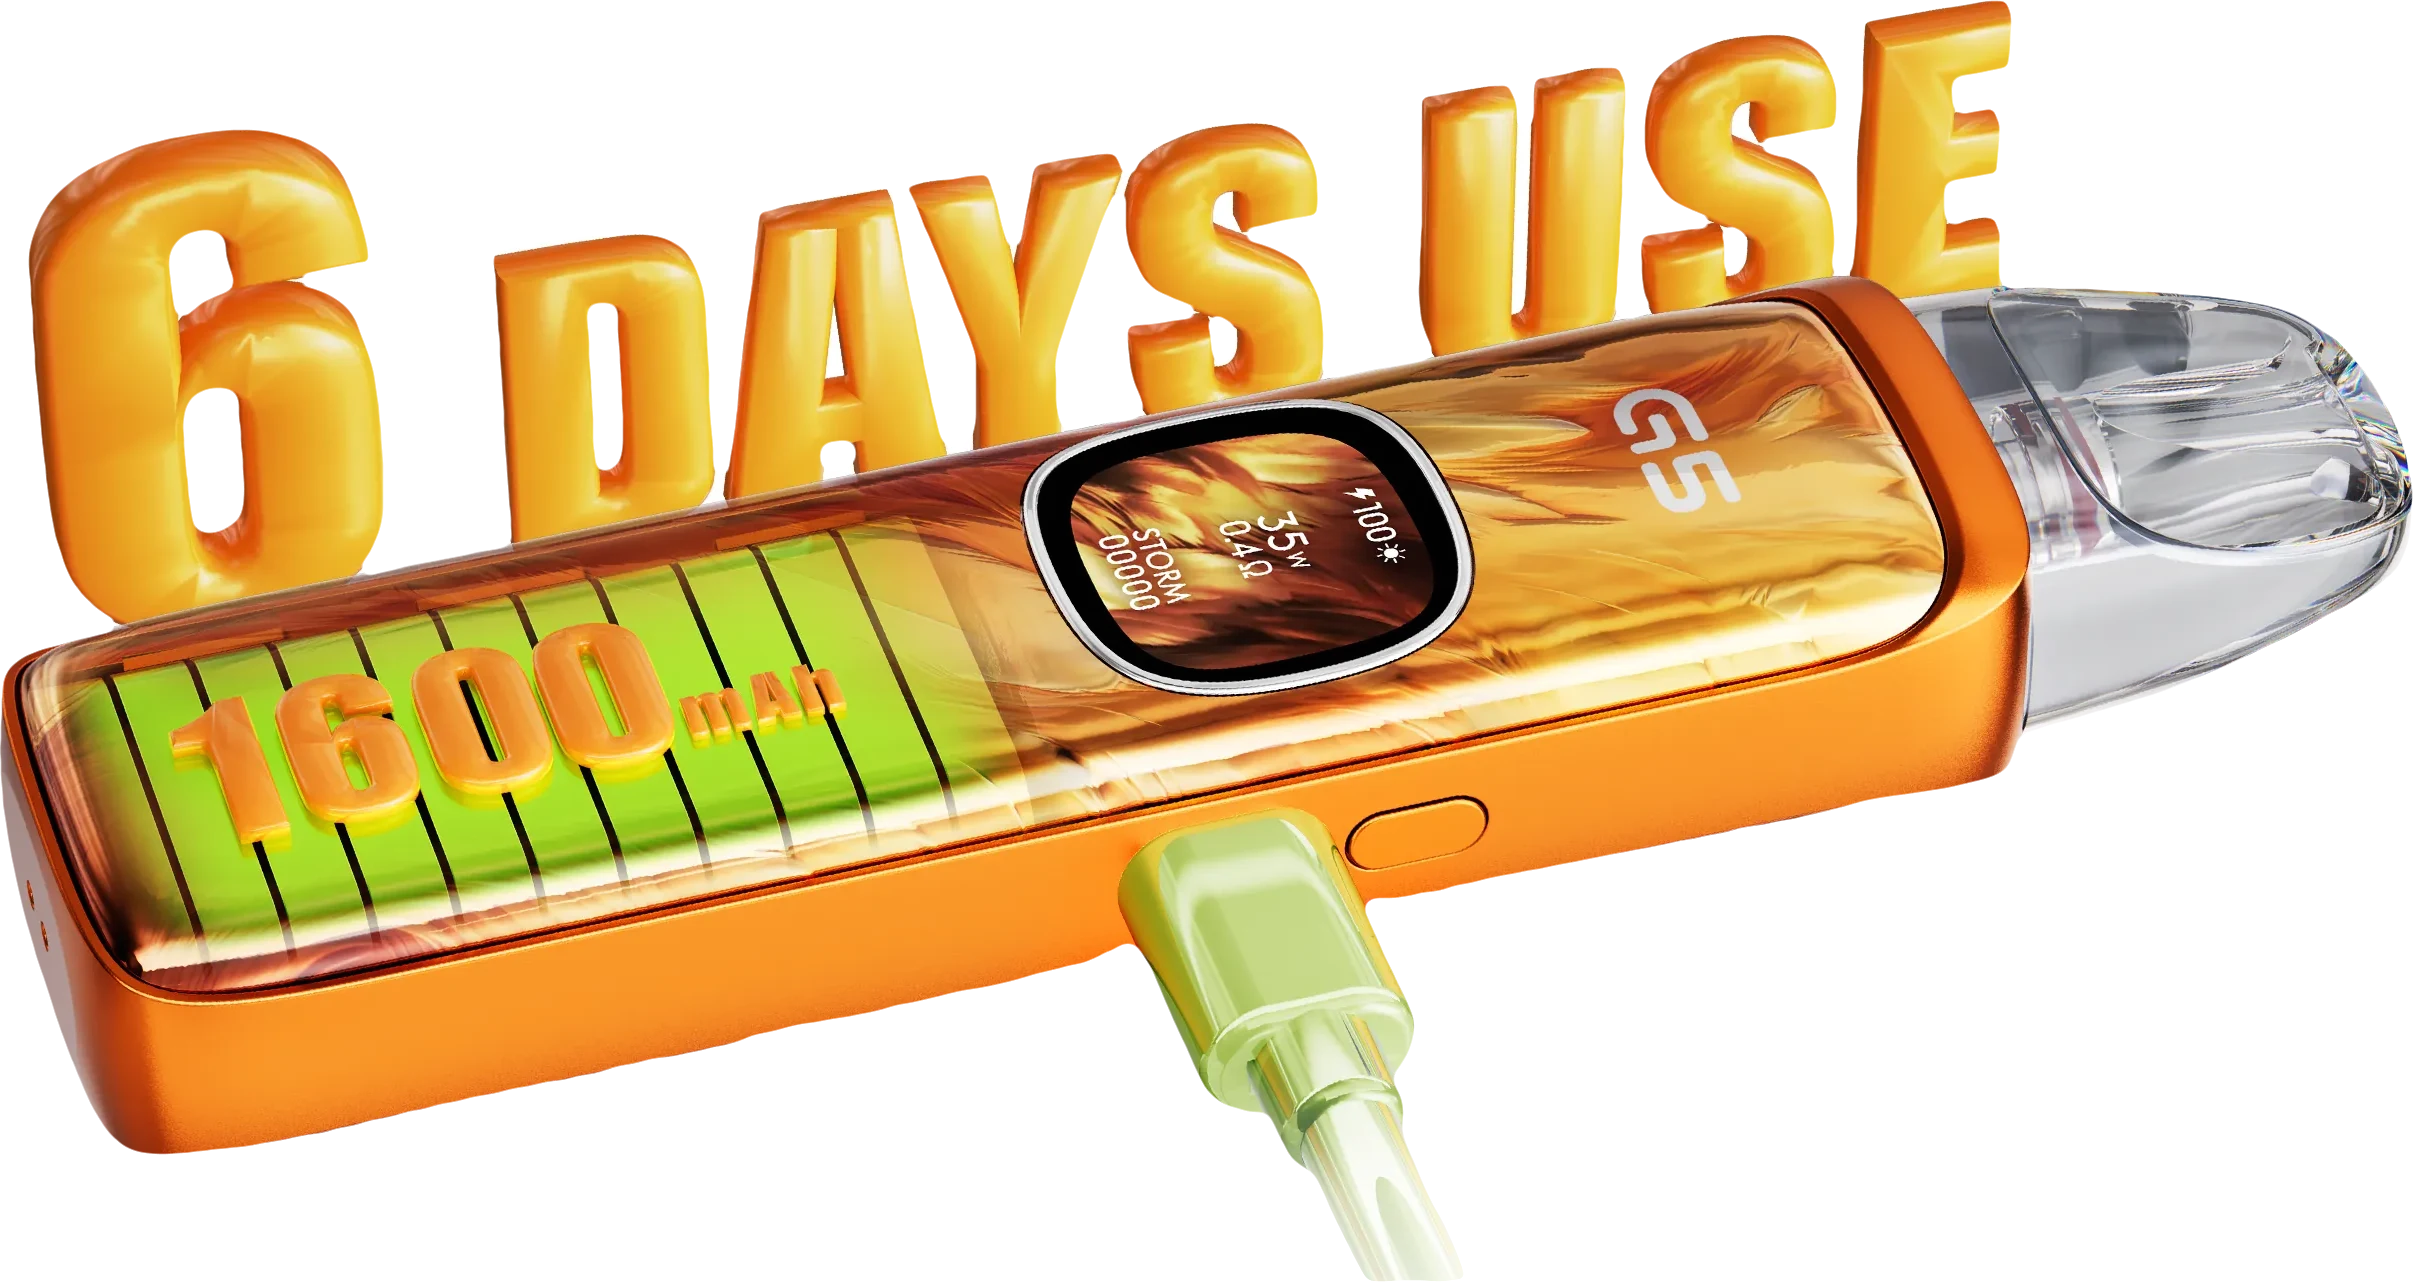
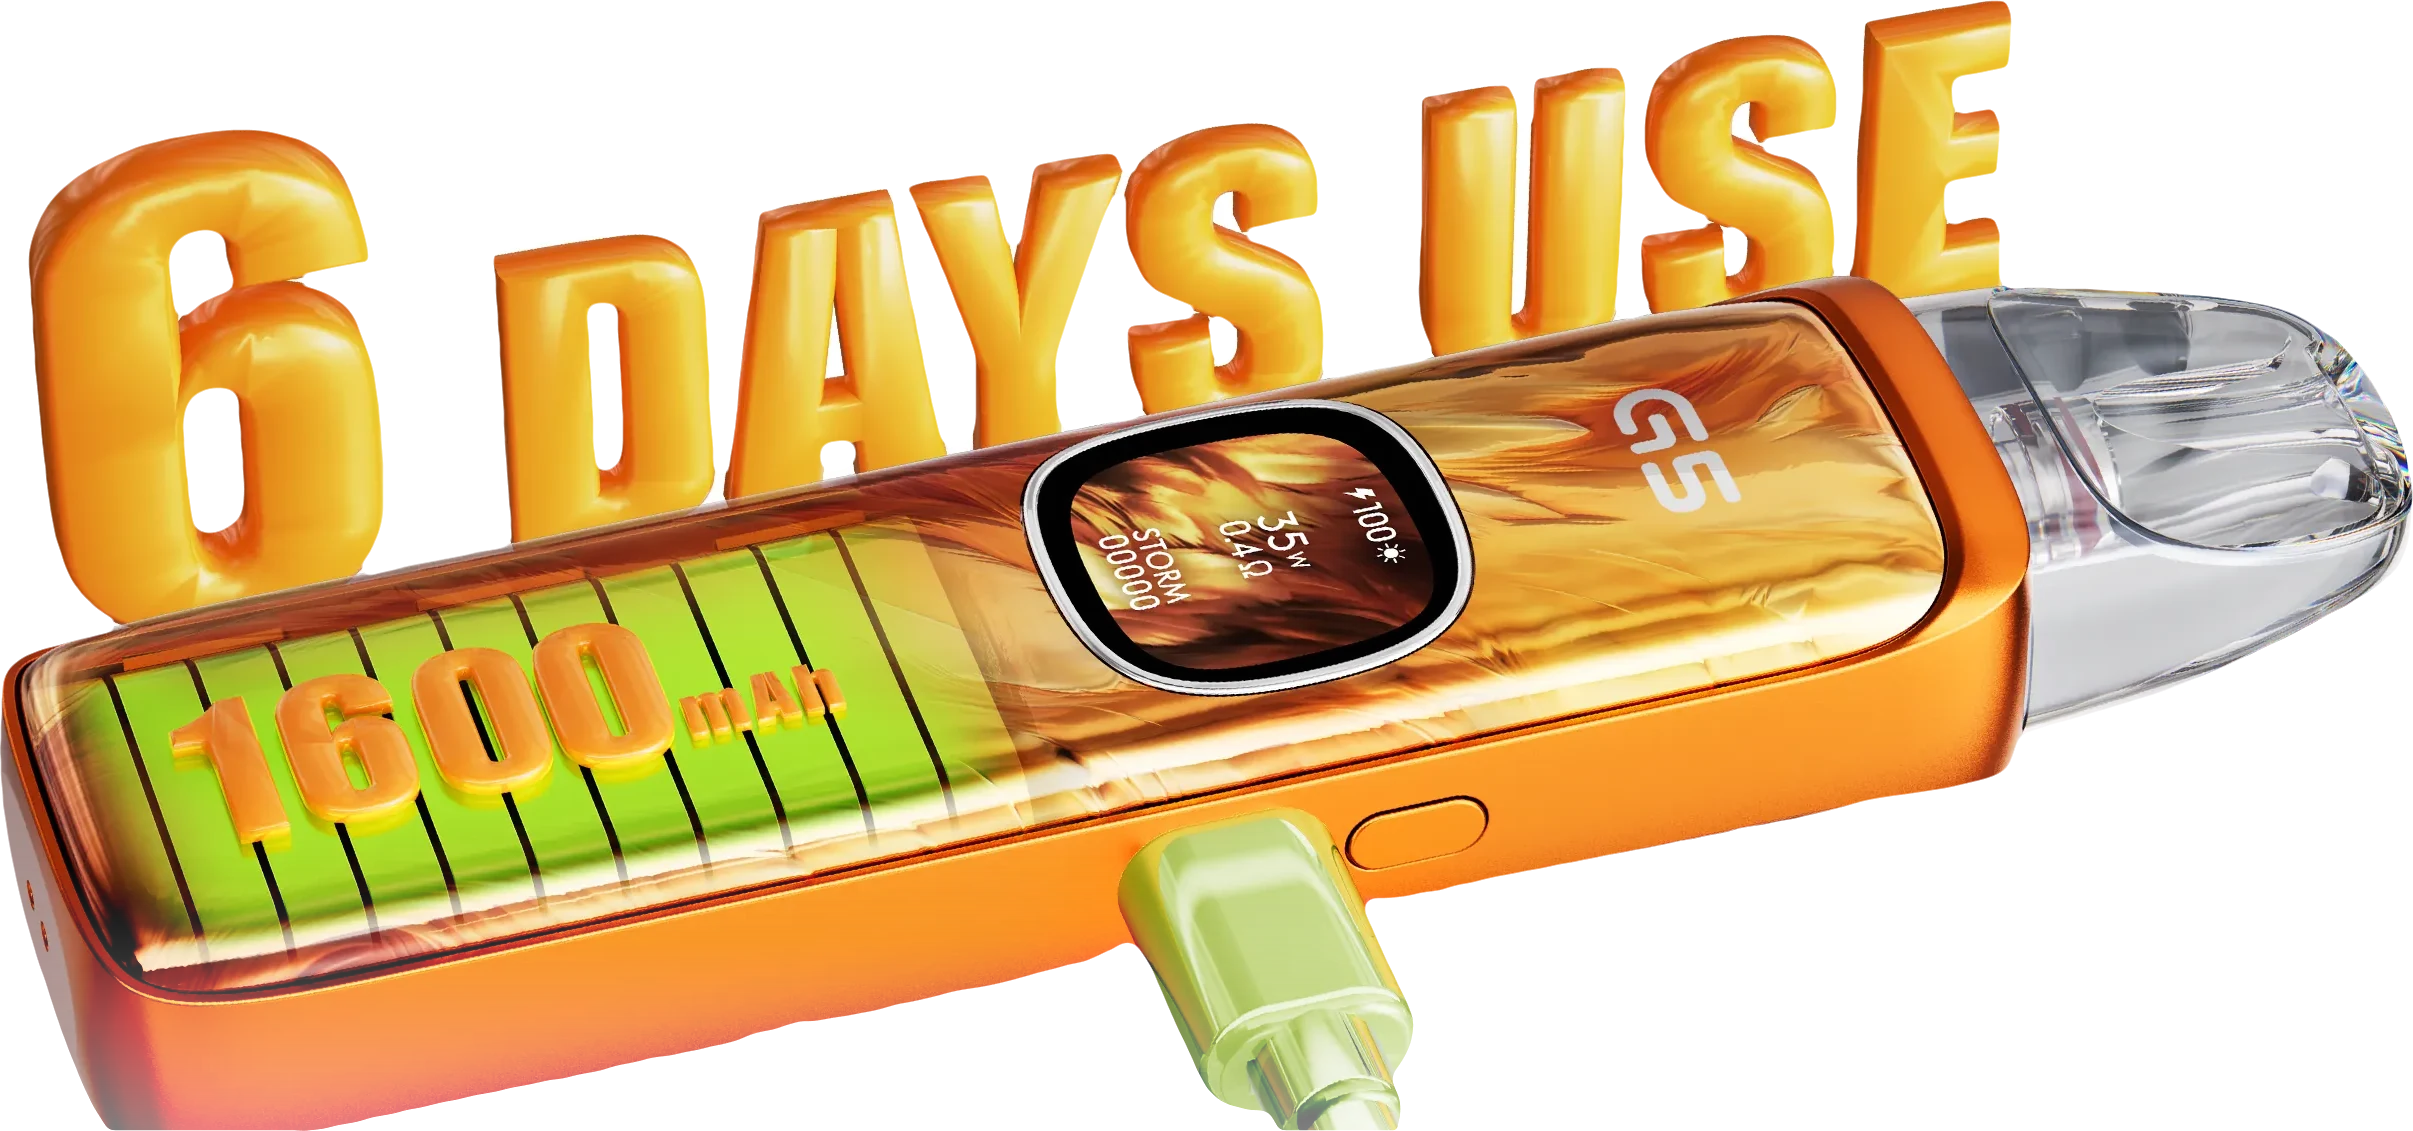
fix: G5 colours poster keeps UWELL's transparent gutters (no black slab); battery cable fades out instead of a flat cut

diff --git a/src/data/products/uwell.ts b/src/data/products/uwell.ts
@@ -195,7 +195,8 @@ export const uwellProducts: Product[] = [
       { key: "pod-compat", label: "Pod platform", value: "UWELL GPP cartridge platform", sourceStatus: "verified" },
     ],
     // Article round batch 1 (02/10): each highlight = one of UWELL's own G5 posters (story-*.webp, from
-    // files.myuwell.com/uwell/product/caliburn-g5/pc/; story-colours = the left part of UWELL's real-shot.webp strip,
+    // files.myuwell.com/uwell/product/caliburn-g5/pc/; story-colours-v2 = the left part of UWELL's real-shot.webp strip with its
+    // transparent gutters kept (designer 03/10: the first crop was flattened onto black),
     // story-battery-v4 = pic10-1 cut again at full size (owner 03/10: v3 tore at the cable, patchy rim, white in the letters) (no box behind the devices; the
     // aluminium poster pic11 is a cut-out already — both float, `transparent`)), told one per block in "more details" (`storyDetails`). Text from
     // UWELL's G5 page. "top-fill-gpp" went: UWELL's spec sheet ships side-refill pods in the international kit.
@@ -230,14 +231,14 @@ export const uwellProducts: Product[] = [
         title: "Immersive Design × UI",
         description: "The 0.85\" colour display renders a themed UI that matches the device finish, showing battery, wattage, and mode at a glance.",
         subline: "Pick a colour, and the screen theme comes with it.",
-        image: { src: "/assets/products/caliburn-g5/story-colours.webp", alt: "Official UWELL photos — the Caliburn G5 in several colours, each screen in its own theme", sourceName: "UWELL", sourceUrl: "https://www.myuwell.com/caliburn/caliburn-g5", width: 2400, height: 1403 },
+        image: { src: "/assets/products/caliburn-g5/story-colours-v2.webp", alt: "Official UWELL photos — the Caliburn G5 in several colours, each screen in its own theme", sourceName: "UWELL", sourceUrl: "https://www.myuwell.com/caliburn/caliburn-g5", width: 2400, height: 1409, transparent: true },
       },
       {
         id: "long-run-battery",
         title: "1600mAh battery",
         description: "UWELL rates the built-in 1600mAh battery at up to 6 days of typical use per charge; it charges over USB-C.",
         subline: "Up to 6 days of typical use per charge (UWELL).",
-        image: { src: "/assets/products/caliburn-g5/story-battery-v4.webp", alt: "Official UWELL poster — 1600mAh battery, up to 6 days of use", sourceName: "UWELL", sourceUrl: "https://www.myuwell.com/caliburn/caliburn-g5", width: 2413, height: 1282, transparent: true },
+        image: { src: "/assets/products/caliburn-g5/story-battery-v4.webp", alt: "Official UWELL poster — 1600mAh battery, up to 6 days of use", sourceName: "UWELL", sourceUrl: "https://www.myuwell.com/caliburn/caliburn-g5", width: 2413, height: 1131, transparent: true },
       },
       {
         id: "aluminium-airflow",
